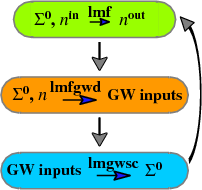
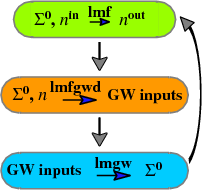
update pages/fplotdoc.md

Changed region(s): [[0.4158, 0.8158, 0.6832, 0.9211]]

diff --git a/pages/gwintrotut.md b/pages/gwintrotut.md
@@ -21,22 +21,29 @@ ________________________________________________________________________________
 <div onclick="elm = document.getElementById('foobar'); if(elm.style.display == 'none') elm.style.display = 'block'; else elm.style.display = 'none';"><button type="button" class="button tiny radius"> QSGW - Click to show.</button></div>
 {::nomarkdown}<div style="display:none;margin:0px 25px 0px 25px;"id="foobar">{:/}
 
-Each iteration of a QSGW calculation has two main parts: a one-body calculation that makes the density _n_, and the _GW_ code that makes the self-energy.
-For quaisparticle self-consistency, the _GW_ code makes a "quasiparticlized" self-energy &Sigma;<sup>0</sup>, which feeds back to the one-body code.
-Before any _GW_ self-energy is made, the one-body hamiltonian is usually the LDA, though it can be something else, e.g. LDA+U.  
+Each iteration of a QSGW calculation has two main parts: a section that uses effective one-body hamiltonians to makes the density _n_, and
+the _GW_ code that makes the self-energy &Sigma;(<i>&omega;</i>) of an interacting hamiltonian.  For quaisparticle self-consistency, the
+_GW_ code makes a "quasiparticlized" self-energy &Sigma;<sup>0</sup>, which is used to construct the effective one-body hamiltonian for the
+next cycle.  The process is iterated until the change in &Sigma;<sup>0</sup> becomes small.
 
 ![QSGW flowchart](/assets/img/qsgwcycle.png)
 
-The one-body executable is **lmf**{: style="color: blue"}.  The _GW_ code is run through shell script, **lmgw**{: style="color: blue"},
-which in turn runs a sequence of executables to make the self-energy.  Another code, **lmfgwd**{: style="color: blue"} is a driver similar
-to **lmf**{: style="color: blue"} but whose purpose is to set up inputs for the _GW_ code.  **lmgwsc**{: style="color: blue"} is a shell
-script that manages the entire cycle, including
+The one-body executable is **lmf**{: style="color: blue"}.  **lmfgwd**{: style="color: blue"} is similar
+to **lmf**{: style="color: blue"}, but it is a driver whose purpose is to set up inputs for the _GW_ code.
+&Sigma;<sup>0</sup> is made by a shell script **lmgw**{: style="color: blue"}.  The entire cycle is managed
+by a shell script **lmgwsc**{: style="color: blue"}.
 
-for input parameters and a GW calculation to obtain a
-self-energy. The full-potential code (lmf script) carries out the DFT calculation, while the GW code (lmgw) calculates the self-energy. When
-iterating to self-consistency, there is movement between the DFT and GW parts and this is handled by the script lmgwsc.
+Before any self-energy &Sigma;<sup>0</sup> exists, it is assumed to be zero.  Thus the one-body hamiltonian is usually the LDA, though it can be something else, e.g. LDA+U.\\
+_Note:_{: style="color: red"} in some circumstances, e.g. to break time reversal symmetry inherent the LDA, you need to start with LDA+U.
 
-In short, a QSGW calculation consists of the following steps. The starting point is a self-consistent DFT calculation (usually LDA). The DFT eigenfunctions and eigenvalues are used by the GW code to construct a full self-energy, which is then converted into an effective exchange-correlation potential (here we call it the GW potential). At this point we have finished a single iteration. In the next iteration, the GW potential is used in a self-consistent DFT calculation to obtain new eigenfunctions and eigenvalues. In turn, these are then used to form a new self-energy, which is converted into a new GW potential. This process is repeated until the change in the root mean square difference between the self-energy of the current and previous iteration is below a certain tolerance value. The final self-consistent self-energy (QSGW potential) is an effective exchange-correlation functional, tailored to the system, that can be conveniently used within the standard DFT setup to calculate properties such as the band structure.   
+In short, a QSGW calculation consists of the following steps. The starting point is a self-consistent DFT calculation (usually LDA). The DFT
+eigenfunctions and eigenvalues are used by the GW code to construct a full self-energy, which is then converted into an effective
+exchange-correlation potential (here we call it the GW potential). At this point we have finished a single iteration. In the next iteration,
+the GW potential is used in a self-consistent DFT calculation to obtain new eigenfunctions and eigenvalues. In turn, these are then used to
+form a new self-energy, which is converted into a new GW potential. This process is repeated until the change in the root mean square
+difference between the self-energy of the current and previous iteration is below a certain tolerance value. The final self-consistent
+self-energy (QSGW potential) is an effective exchange-correlation functional, tailored to the system, that can be conveniently used within
+the standard DFT setup to calculate properties such as the band structure.
 
 {::nomarkdown}</div>{:/}
 

diff --git a/pages/fplotdoc.md b/pages/fplotdoc.md
@@ -1325,7 +1325,7 @@ fplot
   -font b18
   -lbl 0.4,{ys}:0 rc '~\{S}^\{0}'
   -font b16
-  -lbl 0.15,{ys}+.03:0 cc 'lmgwsc'
+  -lbl 0.15,{ys}+.03:0 cc 'lmgw'
 
 # --- Arrow looping green to blue block : make stretched circle ---
   -ins 'gsave 1 4 scale .5 .5 .5 setrgbcolor'
@@ -1344,7 +1344,7 @@ are all similar to one another.
 <div onclick="elm = document.getElementById('figflowchart'); if(elm.style.display == 'none') elm.style.display = 'block'; else elm.style.display = 'none';">
 Run the commands in the box below to create and view the postscript file, or click here to see the figure.</div>
 {::nomarkdown}<div style="display:none;padding:0px;" id="figflowchart">{:/}
-![Frames Example](/assets/img/qsgwcycle.png)
+![Flowchart example](/assets/img/qsgwcycle.png)
 {::nomarkdown}</div>{:/}
 
 ~~~
